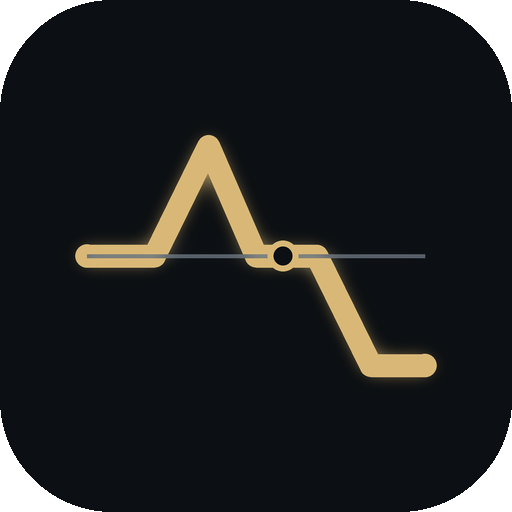
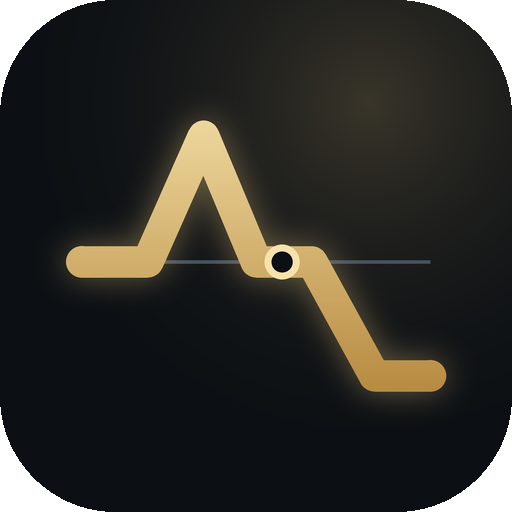
Add files via upload

Changed region(s): [[0.125, 0.1875, 0.875, 0.8125], [0.5312, 0.0, 0.9375, 0.4062]]

diff --git a/index.html b/index.html
@@ -11,7 +11,7 @@
 <link rel="manifest" href="manifest.webmanifest">
 <link rel="icon" href="icon-192.png">
 <link rel="apple-touch-icon" href="apple-touch-icon.png">
-<title>Posición GGAL</title>
+<title>GGAL</title>
 <link rel="preconnect" href="https://fonts.googleapis.com"><link rel="preconnect" href="https://fonts.gstatic.com" crossorigin>
 <link rel="stylesheet" href="https://fonts.googleapis.com/css2?family=Instrument+Serif&family=Manrope:wght@400;500;600;700&family=IBM+Plex+Mono:wght@400;500&display=swap">
 <style>
@@ -62,21 +62,17 @@ header{display:flex;align-items:center;justify-content:space-between;gap:12px}
 button:focus-visible,summary:focus-visible,svg:focus-visible{outline:2px solid var(--gold);outline-offset:2px}
 .msg{display:flex;align-items:flex-start;justify-content:space-between;gap:12px;background:var(--surface);border:1px solid var(--line);border-left:3px solid var(--gold);border-radius:10px;padding:10px 14px;font-size:13px}
 .x{flex:none;width:26px;height:26px;border-radius:50%;border:1px solid var(--line);background:transparent;color:var(--muted);font:400 18px/1 var(--sans);cursor:pointer;padding:0;display:grid;place-items:center}.x:hover{color:var(--fg);border-color:var(--gold)}
-/* héroe */
-.hero{background:var(--surface);border:1px solid var(--line);border-radius:18px;box-shadow:var(--shadow);overflow:hidden}
-.hero-top{display:grid;grid-template-columns:1.6fr 1fr;gap:0}
-.big{padding:22px 24px 20px}
-.big .l,.spotbox .l{font-size:11px;letter-spacing:.14em;text-transform:uppercase;font-weight:700;color:var(--muted)}
-.big .v{font-family:var(--serif);font-size:clamp(44px,9vw,68px);line-height:1.02;margin-top:6px;letter-spacing:-.01em;overflow-wrap:anywhere}
-.big .s{font-size:13px;color:var(--muted);margin-top:6px}
-.spotbox{padding:22px 24px 20px;border-left:1px solid var(--line);background:linear-gradient(180deg,var(--gold-soft),transparent)}
-.spotbox .v{font-family:var(--mono);font-size:clamp(26px,5vw,34px);font-weight:500;margin-top:10px}
-.spotbox .s{font-size:12.5px;color:var(--muted);margin-top:6px}
-.stats{display:grid;grid-template-columns:repeat(auto-fit,minmax(138px,1fr));border-top:1px solid var(--line)}
-.stat{padding:14px 18px;border-right:1px solid var(--line);border-bottom:1px solid var(--line);margin:0 -1px -1px 0;min-width:0}
-.stat .l{font-size:11.5px;color:var(--muted);font-weight:600}
-.stat .v{font-family:var(--mono);font-size:16.5px;font-weight:500;margin-top:3px;overflow-wrap:anywhere}
-@media (max-width:620px){.hero-top{grid-template-columns:1fr}.spotbox{border-left:0;border-top:1px solid var(--line)}.big,.spotbox{padding:18px 18px 16px}.stat{padding:12px 14px}}
+/* tarjetas principales */
+.top{display:flex;flex-direction:column;gap:12px}
+.bigcard{background:var(--surface);border:1px solid var(--line);border-radius:18px;box-shadow:var(--shadow);padding:20px 18px 18px;text-align:center;min-width:0}
+.bigcard.gold{background:linear-gradient(180deg,var(--gold-soft),var(--surface) 70%)}
+.bigcard .l,.stat .l{font-size:11px;letter-spacing:.14em;text-transform:uppercase;font-weight:700;color:var(--muted)}
+.bigcard .v{font-family:var(--mono);font-variant-numeric:tabular-nums;font-weight:500;font-size:clamp(30px,8.4vw,48px);line-height:1.1;margin-top:8px;letter-spacing:-.01em;overflow-wrap:anywhere}
+.bigcard .s{font-size:12.5px;color:var(--muted);margin-top:8px}
+.grid2{display:grid;grid-template-columns:1fr 1fr;gap:12px}
+.stat{display:flex;flex-direction:column;align-items:center;justify-content:space-between;gap:6px;background:var(--surface);border:1px solid var(--line);border-radius:14px;box-shadow:var(--shadow);padding:14px 10px;text-align:center;min-width:0}
+.stat .l{font-size:10.5px}
+.stat .v{font-family:var(--mono);font-variant-numeric:tabular-nums;font-size:clamp(16px,4.4vw,20px);font-weight:500;margin-top:0;overflow-wrap:anywhere}
 /* secciones */
 .card{background:var(--surface);border:1px solid var(--line);border-radius:18px;box-shadow:var(--shadow);padding:18px 20px;min-width:0}
 .card-h{display:flex;align-items:baseline;justify-content:space-between;gap:12px;flex-wrap:wrap;margin-bottom:12px}
@@ -147,8 +143,8 @@ footer{font-size:12px;color:var(--muted);text-align:center}footer a{color:var(--
 <div class="wrap">
   <header>
     <div class="brand">
-      <div class="mark" aria-hidden="true"><svg width="26" height="26" viewBox="0 0 26 26"><path d="M2 12 H7 L11 4 L14.5 12 H18 L22.5 21 H24" fill="none" stroke="#d9b877" stroke-width="2.2" stroke-linecap="round" stroke-linejoin="round"/></svg></div>
-      <div><h1>Posición GGAL</h1><small>Diciembre · vto 18/12/2026</small></div>
+      <div class="mark" aria-hidden="true"><svg width="30" height="30" viewBox="0 0 30 30"><defs><linearGradient id="lg" x1="0" y1="0" x2="1" y2="1"><stop offset="0" stop-color="#f1d9a0"/><stop offset="1" stop-color="#b98a3e"/></linearGradient></defs><path d="M3 15 H8.5 L13 5 L17 15 H21 L26 25 H27.5" fill="none" stroke="url(#lg)" stroke-width="2.6" stroke-linecap="round" stroke-linejoin="round"/><circle cx="19" cy="15" r="2.2" fill="#0c1014" stroke="#f1d9a0" stroke-width="1.4"/></svg></div>
+      <div><h1>GGAL</h1><small>Posición · vto 18/12/2026</small></div>
     </div>
     <div class="status">
       <span id="when" class="when"></span>
@@ -158,12 +154,11 @@ footer{font-size:12px;color:var(--muted);text-align:center}footer a{color:var(--
   </header>
   <div id="msg" class="msg" hidden><span id="msgt"></span><button id="msgx" class="x" type="button" aria-label="Cerrar aviso">×</button></div>
 
-  <section class="hero" aria-label="Resumen">
-    <div class="hero-top">
-      <div class="big"><div class="l">Resultado hoy</div><div class="v" id="hoy">—</div><div class="s" id="hoys"></div></div>
-      <div class="spotbox"><div class="l">GGAL en la planilla</div><div class="v" id="spot">—</div><div class="s" id="spots"></div></div>
-    </div>
-    <div class="stats" id="stats"></div>
+  <section class="top" aria-label="Resumen">
+    <div class="bigcard"><div class="l">Resultado hoy</div><div class="v" id="hoy">—</div></div>
+    <div class="bigcard"><div class="l">Resultado acumulado</div><div class="v" id="acum">—</div></div>
+    <div class="bigcard gold"><div class="l">GGAL en la planilla</div><div class="v" id="spot">—</div><div class="s" id="spots"></div></div>
+    <div class="grid2" id="stats"></div>
   </section>
 
   <section class="card" aria-label="Gráfico">
@@ -322,16 +317,14 @@ function render(){
   if(state.source==='live'){pill.className='pill live';pill.textContent='En vivo';when.textContent=new Date(state.at).toLocaleString('es-AR',{day:'2-digit',month:'2-digit',hour:'2-digit',minute:'2-digit'})}
   else if(state.source==='load'){pill.className='pill load';pill.textContent='Leyendo…';when.textContent=''}
   else {pill.className='pill snap';pill.textContent='Copia guardada';when.textContent=fdate(state.at)}
-  // héroe
   const hv=state.hoy;
   const H=$('hoy');H.textContent=hv==null?'—':money(hv);H.className='v '+(hv==null?'':cls(hv));
-  $('hoys').textContent=state.acum!=null?'Acumulado '+money(state.acum):'';
+  const AC=$('acum');AC.textContent=state.acum==null?'—':money(state.acum);AC.className='v '+(state.acum==null?'':cls(state.acum));
   $('spot').textContent=state.spot?'$'+nf0.format(state.spot):'—';
   const days=Math.max(0,Math.ceil((EXPIRY-new Date())/86400000));
   $('spots').textContent=(state.spotDate?'Precio al '+fdate(state.spotDate)+' · ':'')+days+' días al vencimiento';
   const st=$('stats');st.textContent='';
   const add=(l,v,c)=>{const d=el('div','stat');d.append(el('div','l',l),el('div','v '+(c||''),v));st.append(d)};
-  if(state.acum!=null)add('Resultado acumulado',money(state.acum),cls(state.acum));
   if(state.spot){const rv=a.f(state.spot);add('Si queda en este precio',money(rv),cls(rv))}
   add('Peor resultado',money(a.mn),cls(a.mn));
   add('Mejor resultado',a.openUp&&a.slopeHi>0?'sin tope':money(a.mx),'pos');
@@ -399,9 +392,9 @@ function drawChart(a){
   svg.onpointermove=at;svg.onpointerdown=at;svg.onpointerleave=()=>{cur.setAttribute('visibility','hidden');idle()};
 }
 
-let tiraScrolled=false;
+let userScrolled=false,prog=false;
 function drawTira(a){
-  const t=$('tira');t.textContent='';
+  const t=$('tira'),box0=$('tiraBox'),keep=box0.scrollTop;t.textContent='';
   const rows=(state.tira&&state.tira.length?state.tira:[]).slice().sort((p,q)=>p.price-q.price);
   $('tirasub').textContent=rows.length?'Precios desde '+nf0.format(Math.round(rows[0].price))+' hasta '+nf0.format(Math.round(rows[rows.length-1].price)):'';
   const thr=el('tr');['Precio','Variación','Finish','Teórico'].forEach(h=>thr.append(el('th',null,h)));
@@ -422,7 +415,8 @@ function drawTira(a){
     tr.append(f,o);tb.append(tr);
   });
   t.append(tb);
-  if(nowI>=0&&!tiraScrolled){tiraScrolled=true;requestAnimationFrame(()=>{const box=$('tiraBox'),row=tb.children[nowI];if(row)box.scrollTop=Math.max(0,row.getBoundingClientRect().top-box.getBoundingClientRect().top+box.scrollTop-box.clientHeight/2+row.clientHeight/2)})}
+  if(userScrolled){box0.scrollTop=keep}
+  else if(nowI>=0){const row=tb.children[nowI];const go=()=>{prog=true;box0.scrollTop=Math.max(0,row.getBoundingClientRect().top-box0.getBoundingClientRect().top+box0.scrollTop-box0.clientHeight/2+row.clientHeight/2);setTimeout(()=>{prog=false},60)};go();requestAnimationFrame(go)}
 }
 
 function drawLegs(a){
@@ -481,6 +475,7 @@ async function load(){
   }catch(e){state.source=prev==='live'?'live':'snap';showErr(e)}
   busy=false;btn.disabled=false;btn.classList.remove('spin');render();
 }
+$('tiraBox').addEventListener('scroll',()=>{if(!prog)userScrolled=true});
 $('refresh').addEventListener('click',load);
 $('msgx').addEventListener('click',()=>{$('msg').hidden=true});
 $('tgFin').addEventListener('click',e=>{showFin=!showFin;if(!showFin&&!showTeo){showTeo=true;$('tgTeo').setAttribute('aria-pressed','true')}e.currentTarget.setAttribute('aria-pressed',String(showFin));render()});

diff --git a/sw.js b/sw.js
@@ -1,4 +1,4 @@
-const V='ggal-v3';
+const V='ggal-v4';
 const SHELL=['./','index.html','manifest.webmanifest','icon-192.png','icon-512.png','apple-touch-icon.png'];
 self.addEventListener('install',e=>{e.waitUntil(caches.open(V).then(c=>c.addAll(SHELL)).then(()=>self.skipWaiting()))});
 self.addEventListener('activate',e=>{e.waitUntil(caches.keys().then(k=>Promise.all(k.filter(x=>x!==V).map(x=>caches.delete(x)))).then(()=>self.clients.claim()))});
